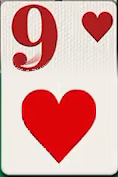
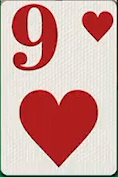
Replace reconstructed nine of hearts with source crop

diff --git a/tests/solitaire.spec.js b/tests/solitaire.spec.js
@@ -478,7 +478,7 @@ test('reference card illustrations render on matching cards', async ({ page }) =
     const digest = await crypto.subtle.digest('SHA-256', bytes);
     return [...new Uint8Array(digest)].map((byte) => byte.toString(16).padStart(2, '0')).join('');
   });
[2 lines of base64/hex data omitted]
   const bluePixelsInEightHeartsCorner = await page.evaluate(async () => {
     const response = await fetch('/assets/cards/8-of-hearts-reference.png');
     const image = new Image();

diff --git a/assets/cards/README.md b/assets/cards/README.md
@@ -99,6 +99,6 @@ Seven further number-card faces are complete crops from full gameplay frames. Ea
 
 The 10♣ crop comes from the default black-suit gameplay frame at 120 seconds. It was re-extracted independently from the full source frame and pixel-compared with the committed 118×177 crop; the complete face is unobstructed. Source PTS, frame hash, crop hash, and extraction coordinates are recorded in [`research/solitaire-master/source-card-10-of-clubs-2026-11-25`](../../research/solitaire-master/source-card-10-of-clubs-2026-11-25).
 
-The runtime selects these crops for their matching cards and includes them in the offline shell cache. All twelve court cards and thirty-nine number-card faces use source-frame or official store crops; the 9♥ is the remaining source-style composite.
+The runtime selects these crops for their matching cards and includes them in the offline shell cache. All twelve court cards and all forty number-card faces use source-frame or official store crops.
 
-The 9♥ is visible in the gameplay frame at PTS 3732480 (243s), at `(8, 732)`, but the next tableau card overlaps its lower edge. `9-of-hearts-source-top.png` preserves the exact unoccluded 118×80 pixels from that frame; its source-video hash, frame PTS, crop coordinates, and crop hash are recorded in `9-of-hearts-source-top.json`. The reference face builder uses this strip for the rank, corner heart, frame, and paper texture, then completes the lower 97 rows from the 9♦ and 5♥ captures because no unobscured full 9♥ frame has been verified yet. A short fade at the lower edge blends paper texture while preserving red source ink. Rebuild it with `python3 tools/build_nine_hearts_reference.py`.
+The complete 9♥ face is directly cropped from the gameplay frame at PTS 4623360 (301s), at `(133, 990)`. It is the unobscured bottom card in tableau column 2, with no card overlap or selection effect. The crop is 118×177 and its source-video hash, frame PTS, crop coordinates, and PNG hash are recorded in `9-of-hearts-reference.json`.
